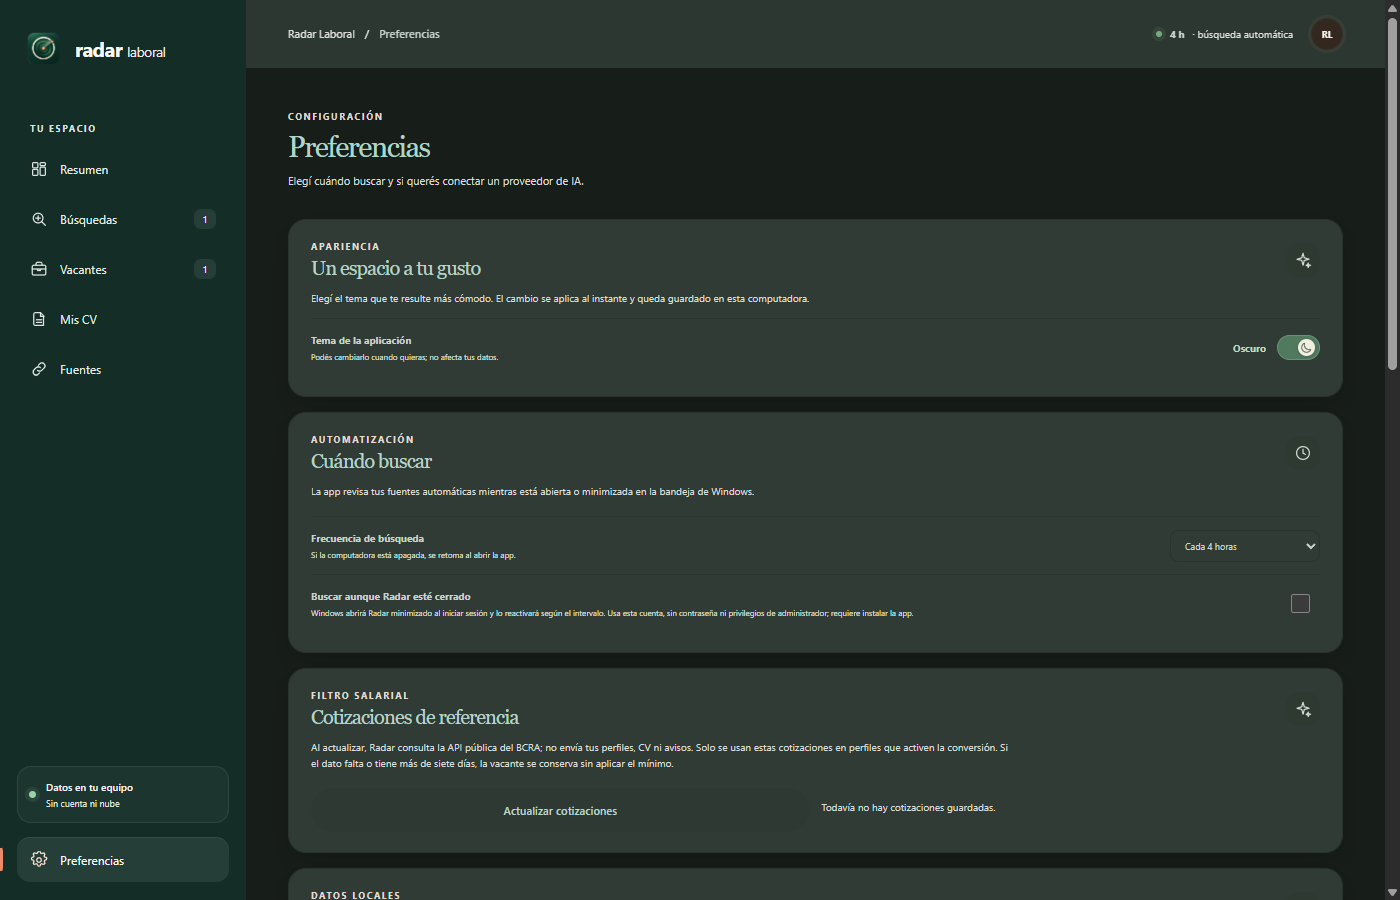
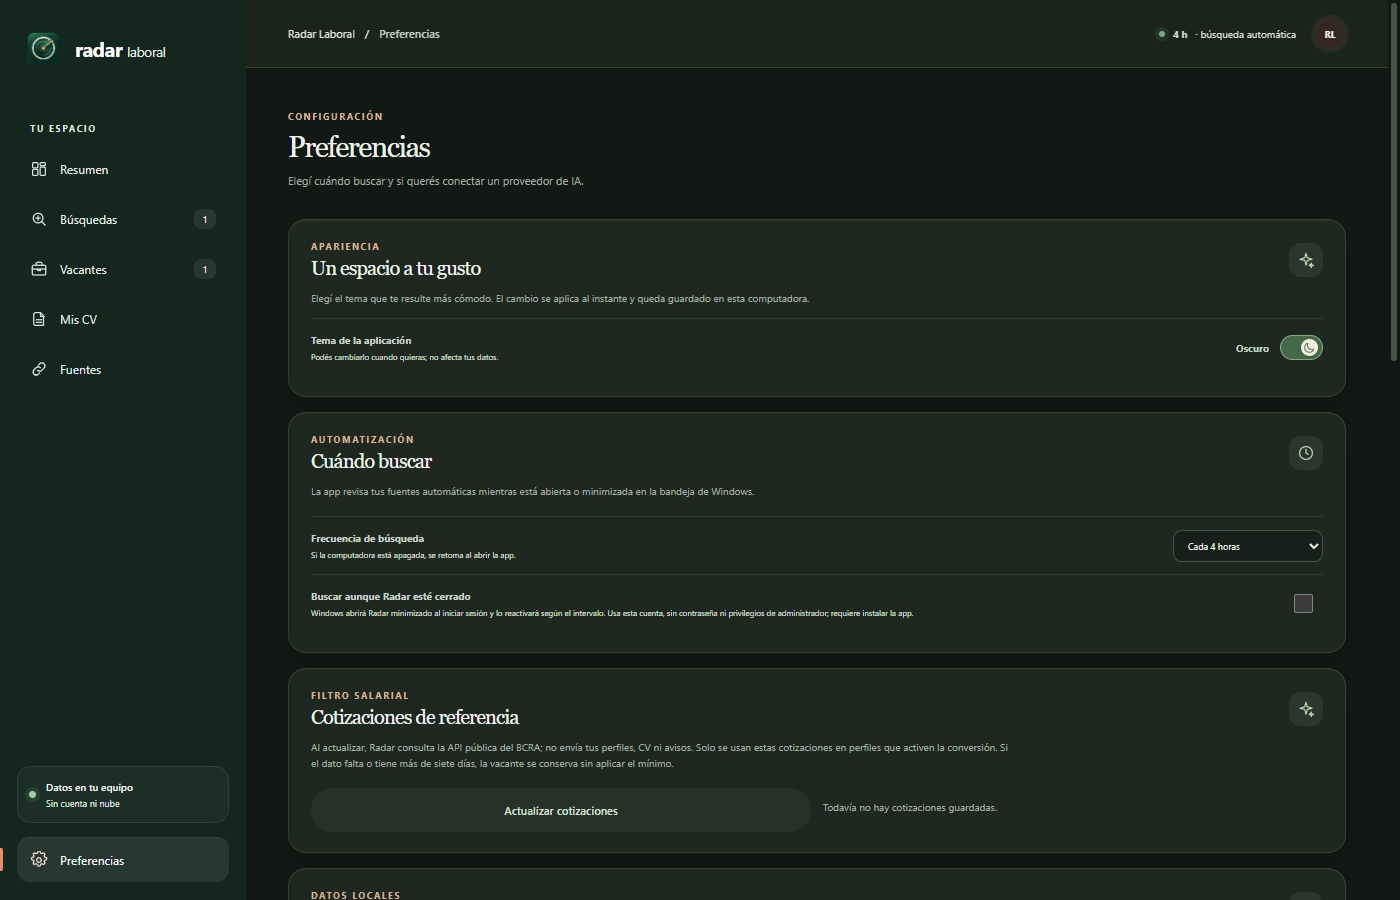
feat(theme): refine dark surfaces and relaunch after updates

diff --git a/src/App.css b/src/App.css
@@ -456,6 +456,102 @@
 :root[data-theme='dark'] .upload-orbit,
 :root[data-theme='dark'] .modal-card { box-shadow: 0 10px 28px #00000024; }
 
+/* Dark theme: separate the canvas, cards, nested panels, and controls. */
+:root[data-theme='dark'] body,
+:root[data-theme='dark'] .app-shell,
+:root[data-theme='dark'] .main-panel { background: var(--paper); }
+:root[data-theme='dark'] .sidebar { background: var(--forest); }
+:root[data-theme='dark'] .topbar { border-color: var(--surface-border); background: rgb(27 37 30 / .94); }
+:root[data-theme='dark'] .content-card,
+:root[data-theme='dark'] .stat-card,
+:root[data-theme='dark'] .profile-card,
+:root[data-theme='dark'] .empty-page-card,
+:root[data-theme='dark'] .modal-card { border-color: var(--surface-border); background: var(--surface-card); box-shadow: inset 0 1px 0 rgb(255 255 255 / .035), 0 12px 28px rgb(0 0 0 / .16); }
+:root[data-theme='dark'] .profile-card-shell { border-color: var(--surface-border); background: var(--surface-recessed); }
+:root[data-theme='dark'] .profile-card { border-color: rgb(255 255 255 / .045); }
+:root[data-theme='dark'] .floating-note { border-color: var(--surface-border); background: var(--surface-raised); box-shadow: 0 12px 26px rgb(0 0 0 / .2), inset 0 1px 0 rgb(255 255 255 / .04); }
+:root[data-theme='dark'] .page-heading h1,
+:root[data-theme='dark'] .section-heading h2,
+:root[data-theme='dark'] .profile-card h2,
+:root[data-theme='dark'] .empty-page-card h2,
+:root[data-theme='dark'] .upload-panel h2,
+:root[data-theme='dark'] .modal-header h2,
+:root[data-theme='dark'] .stat-value { color: var(--text-primary); }
+:root[data-theme='dark'] .page-heading .eyebrow,
+:root[data-theme='dark'] .section-heading .eyebrow,
+:root[data-theme='dark'] .modal-header .eyebrow { color: #d8b393; }
+:root[data-theme='dark'] .settings-lead,
+:root[data-theme='dark'] .page-heading p,
+:root[data-theme='dark'] .field-hint { color: var(--text-muted); }
+:root[data-theme='dark'] .profile-roles span,
+:root[data-theme='dark'] .heading-count,
+:root[data-theme='dark'] .filter-tabs button.selected,
+:root[data-theme='dark'] .job-row:hover,
+:root[data-theme='dark'] .source-explainer,
+:root[data-theme='dark'] .privacy-banner,
+:root[data-theme='dark'] .draft-job-heading,
+:root[data-theme='dark'] .resume-info details p,
+:root[data-theme='dark'] .json-source-mapping,
+:root[data-theme='dark'] .json-salary-mapping { border-color: var(--surface-border); background: var(--surface-raised); }
+:root[data-theme='dark'] .profile-card-footer,
+:root[data-theme='dark'] .source-row,
+:root[data-theme='dark'] .jobs-toolbar,
+:root[data-theme='dark'] .job-row,
+:root[data-theme='dark'] .setting-row,
+:root[data-theme='dark'] .modal-header { border-color: var(--surface-border); }
+:root[data-theme='dark'] .filter-tabs button.selected { color: #d3e5cb; }
+:root[data-theme='dark'] .button-outline { border-color: var(--surface-border-strong); background: var(--surface-card); }
+:root[data-theme='dark'] .button-outline:hover,
+:root[data-theme='dark'] .button-soft,
+:root[data-theme='dark'] .button-quiet:hover { background: var(--surface-raised); }
+:root[data-theme='dark'] .button-soft { color: #d7e2d8; }
+:root[data-theme='dark'] .button-quiet:hover { color: var(--text-primary); }
+:root[data-theme='dark'] .profile-card-symbol,
+:root[data-theme='dark'] .settings-section-icon,
+:root[data-theme='dark'] .source-mark { color: #bcd5b3; background: #29372e; }
+:root[data-theme='dark'] .source-mark.json { color: #c2d5df; background: #293740; }
+:root[data-theme='dark'] .source-mark.csv { color: #e3d1aa; background: #393323; }
+:root[data-theme='dark'] .source-mark.website { color: #e5c1a8; background: #3a2d25; }
+:root[data-theme='dark'] .settings-ai { color: #e8c9ae; background: #3c3026; }
+:root[data-theme='dark'] .jobs-profile-filter,
+:root[data-theme='dark'] .table-search,
+:root[data-theme='dark'] .job-row-actions select,
+:root[data-theme='dark'] .setting-row select,
+:root[data-theme='dark'] .provider-field input,
+:root[data-theme='dark'] .field input,
+:root[data-theme='dark'] .field textarea,
+:root[data-theme='dark'] .field select,
+:root[data-theme='dark'] .locality-picker > input,
+:root[data-theme='dark'] .locality-suggestions { border-color: var(--surface-border-strong); background: var(--surface-recessed); color: var(--text-primary); }
+:root[data-theme='dark'] .table-search input { color: var(--text-primary); }
+:root[data-theme='dark'] .table-search input::placeholder,
+:root[data-theme='dark'] .field input::placeholder,
+:root[data-theme='dark'] .field textarea::placeholder { color: #8e9b91; }
+:root[data-theme='dark'] .field input:focus,
+:root[data-theme='dark'] .field textarea:focus,
+:root[data-theme='dark'] .field select:focus,
+:root[data-theme='dark'] .locality-picker > input:focus { border-color: var(--focus-ring); box-shadow: 0 0 0 3px rgb(164 205 154 / .15); }
+:root[data-theme='dark'] .locality-suggestions button:hover,
+:root[data-theme='dark'] .locality-suggestions button:focus-visible { background: var(--surface-raised); }
+:root[data-theme='dark'] .upload-panel { border-color: var(--surface-border); background: radial-gradient(circle at 89% 25%, rgb(137 174 127 / .12) 0, transparent 29%), linear-gradient(108deg, var(--surface-card), #1a241e); }
+:root[data-theme='dark'] .callout-soft { color: #c5d1c7; border: 1px solid #39463d; background: #222d26; }
+:root[data-theme='dark'] .callout-success { color: #c5dfc1; border: 1px solid #38503b; background: #203126; }
+:root[data-theme='dark'] .callout-error { color: #edc5bb; border: 1px solid #5a3a35; background: #392725; }
+:root[data-theme='dark'] .badge-nueva { color: #e8d4a8; background: #3b3322; }
+:root[data-theme='dark'] .badge-revisada { color: #c9dce5; background: #283741; }
+:root[data-theme='dark'] .badge-guardada { color: #cee2c9; background: #29372d; }
+:root[data-theme='dark'] .badge-postulada { color: #c9dce5; background: #293741; }
+:root[data-theme='dark'] .badge-descartada { color: #e5c4bc; background: #3b2b29; }
+:root[data-theme='dark'] .toggle-switch.on { background: #6f956d; }
+:root[data-theme='dark'] .toggle-switch.on span { background: #f2f1e8; }
+:root[data-theme='dark'] .update-progress { background: var(--surface-raised); }
+:root[data-theme='dark'] .theme-switch-track { border-color: #49624e; background: #293b2e; }
+:root[data-theme='dark'] .theme-switch.is-dark .theme-switch-track { border-color: #84aa7c; background: #456848; }
+:root[data-theme='dark'] ::-webkit-scrollbar { width: 12px; height: 12px; }
+:root[data-theme='dark'] ::-webkit-scrollbar-track { background: var(--paper); }
+:root[data-theme='dark'] ::-webkit-scrollbar-thumb { border: 3px solid var(--paper); border-radius: 999px; background: #46554a; }
+:root[data-theme='dark'] ::-webkit-scrollbar-thumb:hover { background: #5c705e; }
+
 @media (max-width: 680px) {
   .appearance-row { align-items: center; }
   .theme-switch { padding: 4px 0 4px 4px; }

diff --git a/src/App.tsx b/src/App.tsx
@@ -436,7 +436,7 @@ function App() {
   useEffect(() => {
     document.documentElement.dataset.theme = theme
     document.documentElement.style.colorScheme = theme
-    document.querySelector('meta[name="theme-color"]')?.setAttribute('content', theme === 'dark' ? '#17201b' : '#f4f3ef')
+    document.querySelector('meta[name="theme-color"]')?.setAttribute('content', theme === 'dark' ? '#121813' : '#f4f3ef')
     try {
       window.localStorage.setItem('radar-laboral-theme', theme)
     } catch {
@@ -2129,8 +2129,8 @@ function SettingsPage({ settings, setSettings, theme, onThemeChange, candidate, 
       </div>}
       <div className="privacy-banner"><span className="privacy-banner-dot" /><p><strong>La clave se cifra en Windows.</strong> Al generar un mensaje, el aviso, el CV elegido y los datos confirmados de Mi perfil se envían al proveedor. Puede haber cargos según tu cuenta; revisá el resultado antes de usarlo.</p></div>
     </section>
-    <section className="content-card settings-card"><div className="section-heading"><div><div className="eyebrow">ACTUALIZACIÓN</div><h2>Versión de la app</h2></div><span className="settings-section-icon"><Icon name="arrow" /></span></div><p className="settings-lead">Radar Laboral busca actualizaciones publicadas en GitHub Releases. Si hay una nueva versión, la descarga y la instala al salir, sin interrumpir tu trabajo.</p>
-      <div className="form-row"><button type="button" className="button button-soft" disabled={busy || checkingUpdates || updateState?.status === "downloading"} onClick={onCheckForUpdates}>{checkingUpdates || updateState?.status === "checking" ? "Buscando…" : "Buscar actualizaciones"}</button>{updateState?.status === "downloaded" && <button type="button" className="button button-dark" disabled={busy} onClick={onQuitAndInstallUpdate}>Instalar y salir <span className="button-end"><Icon name="check" size={16} /></span></button>}</div>
+    <section className="content-card settings-card"><div className="section-heading"><div><div className="eyebrow">ACTUALIZACIÓN</div><h2>Versión de la app</h2></div><span className="settings-section-icon"><Icon name="arrow" /></span></div><p className="settings-lead">Radar Laboral busca actualizaciones publicadas en GitHub Releases. La descarga no interrumpe tu trabajo; al instalar, la app se cierra un momento y vuelve a abrirse.</p>
+      <div className="form-row"><button type="button" className="button button-soft" disabled={busy || checkingUpdates || updateState?.status === "downloading"} onClick={onCheckForUpdates}>{checkingUpdates || updateState?.status === "checking" ? "Buscando…" : "Buscar actualizaciones"}</button>{updateState?.status === "downloaded" && <button type="button" className="button button-dark" disabled={busy} onClick={onQuitAndInstallUpdate}>Instalar y reiniciar <span className="button-end"><Icon name="check" size={16} /></span></button>}</div>
       <p className="settings-lead" role="status">{updateState ? updateState.message : "Consultando el estado de actualización…"}</p>
       {updateState?.status === "downloading" && <div className="update-progress" role="progressbar" aria-valuemin={0} aria-valuemax={100} aria-valuenow={updateState.percent ?? 0}><div className="update-progress-bar" style={{ width: `${updateState.percent ?? 0}%` }} /></div>}
     </section>

diff --git a/electron/app-updates.ts b/electron/app-updates.ts
@@ -56,7 +56,7 @@ export const APP_UPDATE_MESSAGES: Record<AppUpdateStatus, string> = {
   checking: 'Buscando una actualización…',
   available: 'Hay una actualización disponible. Descargando…',
   downloading: 'Descargando la actualización…',
-  downloaded: 'Actualización lista. Se instalará al salir de Radar Laboral.',
+  downloaded: 'Actualización lista. Al instalarla, Radar Laboral se volverá a abrir.',
   'up-to-date': 'Radar Laboral está actualizado.',
   error: 'No se pudo buscar la actualización. Revisá tu conexión e intentá de nuevo.',
 }
@@ -126,7 +126,7 @@ export function reduceAppUpdateEvent(current: AppUpdateState, event: AppUpdateEv
     case 'update-downloaded': {
       if (current.status === 'disabled') return current
       const version = cleanVersion(event.version) ?? current.version
-      return { status: 'downloaded', version, percent: 100, message: version ? `Actualización ${version} lista. Se instalará al salir de Radar Laboral.` : APP_UPDATE_MESSAGES.downloaded, detail: null }
+      return { status: 'downloaded', version, percent: 100, message: version ? `Actualización ${version} lista. Al instalarla, Radar Laboral se volverá a abrir.` : APP_UPDATE_MESSAGES.downloaded, detail: null }
     }
     case 'up-to-date': {
       if (current.status === 'disabled' || current.status === 'downloaded' || current.status === 'downloading' || current.status === 'available') return current
@@ -313,9 +313,8 @@ export function createAppUpdateService(options: AppUpdateServiceOptions): AppUpd
     checkForUpdates,
     quitAndInstall() {
       if (state.status !== 'downloaded') throw new Error('Todavía no hay una actualización descargada para instalar.')
-      // Use NSIS silent mode so its finish page does not relaunch the app after
-      // the user explicitly chose “Instalar y salir”.
-      updater.quitAndInstall(true, false)
+      // Use NSIS silent mode and force the updated app to reopen after install.
+      updater.quitAndInstall(true, true)
     },
   }
 }

diff --git a/src/index.css b/src/index.css
@@ -12,17 +12,35 @@
   --moss: #668b70;
   --clay: #e77b57;
   --ink: #273d32;
+  --surface-card: #fbfaf6;
+  --surface-raised: #f2f3ed;
+  --surface-recessed: #fffefa;
+  --surface-border: #e4e3da;
+  --surface-border-strong: #d5ddd4;
+  --text-primary: #203b30;
+  --text-secondary: #627066;
+  --text-muted: #858d82;
+  --focus-ring: #83a486;
 }
 
 :root[data-theme='dark'] {
-  color: #e5ebe5;
-  background: #171d19;
+  color: #edf2ec;
+  background: #121813;
   color-scheme: dark;
-  --paper: #171d19;
-  --forest: #142e27;
-  --moss: #8bb895;
-  --clay: #f09a72;
-  --ink: #e5ebe5;
+  --paper: #121813;
+  --forest: #13271f;
+  --moss: #a4cd9a;
+  --clay: #ee9673;
+  --ink: #edf2ec;
+  --surface-card: #1e2821;
+  --surface-raised: #263129;
+  --surface-recessed: #161f19;
+  --surface-border: #344138;
+  --surface-border-strong: #46554b;
+  --text-primary: #edf2ec;
+  --text-secondary: #c8d3ca;
+  --text-muted: #a2afa4;
+  --focus-ring: #a4cd9a;
 }
 
 * { box-sizing: border-box; }
@@ -33,12 +51,12 @@ body { min-width: 320px; min-height: 100vh; margin: 0; }
 
 button, input, textarea, select { font: inherit; }
 
-button:focus-visible, input:focus-visible, textarea:focus-visible, select:focus-visible { outline: 3px solid #7ba0825c; outline-offset: 2px; }
+button:focus-visible, input:focus-visible, textarea:focus-visible, select:focus-visible { outline: 3px solid color-mix(in srgb, var(--focus-ring) 38%, transparent); outline-offset: 2px; }
 
 :root[data-theme='dark'] button:focus-visible,
 :root[data-theme='dark'] input:focus-visible,
 :root[data-theme='dark'] textarea:focus-visible,
-:root[data-theme='dark'] select:focus-visible { outline-color: #9bcba777; }
+:root[data-theme='dark'] select:focus-visible { outline-color: color-mix(in srgb, var(--focus-ring) 70%, transparent); }
 
 ::selection { color: #fffaf1; background: #527a60; }
 

diff --git a/docs/mvp-audit.md b/docs/mvp-audit.md
@@ -1,6 +1,12 @@
 # Auditoría del MVP
 
-Estado revisado el 11 de octubre de 2026 sobre la versión 0.4.150. Esta auditoría conserva la evidencia funcional reunida desde 0.4.139 y registra los cambios y verificaciones de la versión actual.
+Estado revisado el 11 de octubre de 2026 sobre la versión 0.4.151. Esta auditoría conserva la evidencia funcional reunida desde 0.4.139 y registra los cambios y verificaciones de la versión actual.
+
+## 0.4.151 - superficies oscuras y reinicio después de actualizar
+
+El tema oscuro separa ahora el fondo principal, la navegación, las tarjetas y los controles con una paleta de carbón y verde bosque. Las tarjetas tienen borde y relieve sutiles, los campos usan una superficie más profunda, y los textos, estados y foco usan tonos adecuados para el tema. Se regeneraron las cinco capturas del README desde la aplicación empaquetada; el switch oscuro se comprobó también después de cerrar y volver a abrir la app.
+
+En Preferencias, la acción ahora se llama **Instalar y reiniciar** y avisa que Radar Laboral volverá a abrirse. Al confirmar, el actualizador pide a NSIS que inicie la versión instalada al terminar. La prueba unitaria confirma los argumentos de relanzamiento. El build local pasó typecheck, lint y las 98 pruebas. El smoke del instalador NSIS x64 instaló y desinstaló el paquete, comprobó la base SQLite, el icono, los seis escenarios de colores forzados, la estructura del tema oscuro y 184 enlaces Markdown. La consulta de actualización en el paquete también informó que la app estaba al día. La actualización real `0.4.150 → 0.4.151` se probará desde Preferencias una vez publicada la versión y se agregará su evidencia a esta auditoría.
 
 ## 0.4.150 - recorte fiel del icono original
 
